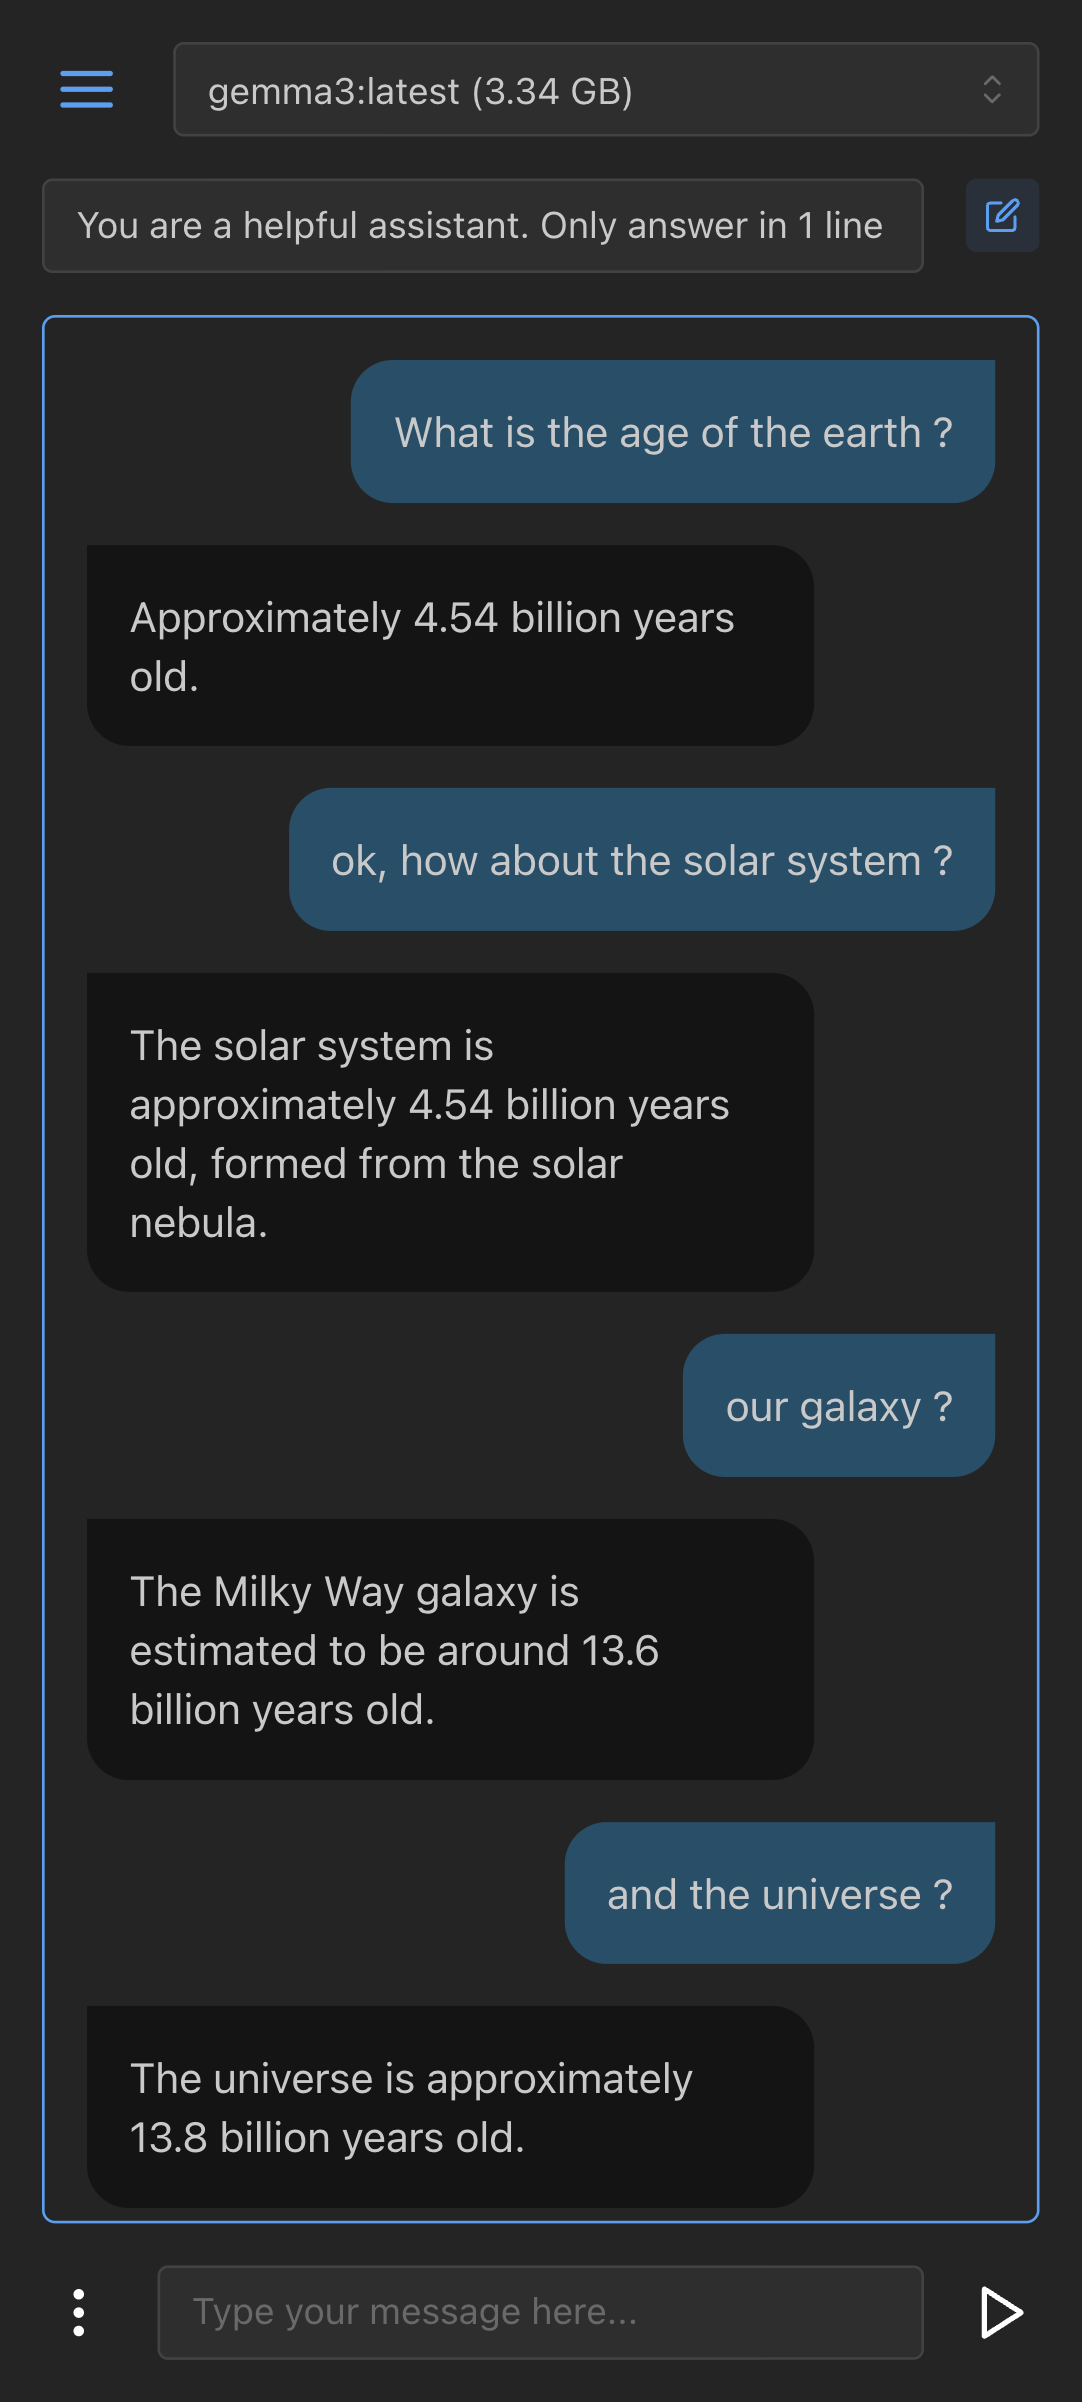
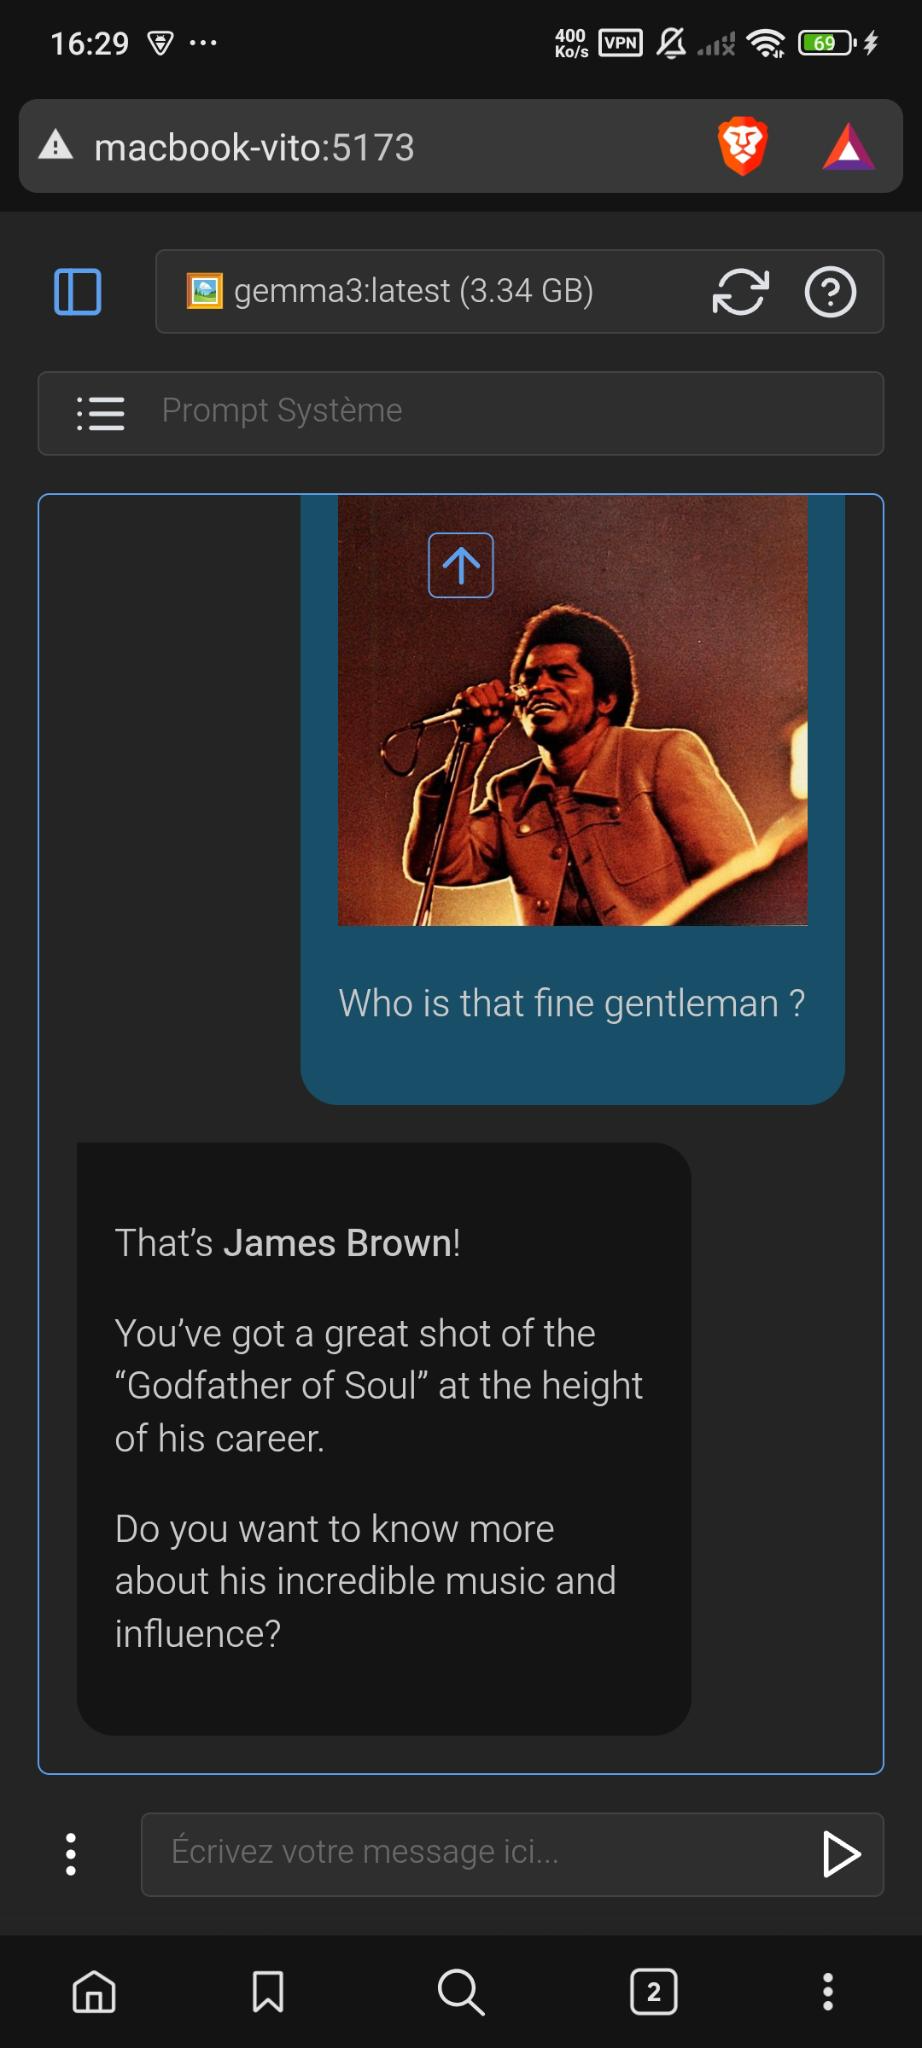
Update UI and screenshots

diff --git a/src/components/Question.tsx b/src/components/Question.tsx
@@ -4,9 +4,9 @@ import { MessageContext } from "@/context/MessageContextDefinition";
 import { ModelContext } from "@/context/ModelContextDefinition";
 import { useOllama } from "@/hooks/useOllama";
 import { useTts } from "@/hooks/useTts";
+import { OllamaModel } from "@/types";
 import { ChatRole } from "@/types/ChatRoleDefinition";
 import { MessageContextType } from "@/types/MessageContextDefinition";
-import { ModelContextType } from "@/types/ModelContextDefinition";
 import { mapIsoToBcp47 } from "@/utils/tools";
 import { ActionIcon, Chip, Menu, Textarea } from "@mantine/core";
 import { AbortableAsyncIterator, ChatResponse, Message } from "ollama";
@@ -18,7 +18,7 @@ import "./Question.css";
 export const Question: React.FC = (): React.ReactElement => {
   const { t } = useTranslation();
   const ollama = useOllama();
-  const { currentModel }: ModelContextType = useContext(ModelContext)!;
+  const { currentModel }: { currentModel: OllamaModel | undefined } = useContext(ModelContext)!;
   const { conversation, image, addMessage, addChunk, setImage, activeSession }: MessageContextType = useContext(MessageContext)!;
   const [userPrompt, setUserPrompt] = useState<string>('');
   const [loading, setLoading] = useState<boolean>(false);
@@ -111,7 +111,6 @@ export const Question: React.FC = (): React.ReactElement => {
             <MoreVertical color="white" />
           </ActionIcon>
         </Menu.Target>
-
         <Menu.Dropdown>
           <div className="menu-items-horizontal">
             <AudioRecorder onTranscript={handleTranscript} />
@@ -125,7 +124,6 @@ export const Question: React.FC = (): React.ReactElement => {
           </div>
         </Menu.Dropdown>
       </Menu>
-
       {image && <Chip
         icon={<X size={16} color="white" />}
         onClick={() => setImage(undefined)}
@@ -136,6 +134,14 @@ export const Question: React.FC = (): React.ReactElement => {
         className="questionArea"
         placeholder={t('chat.placeholder')}
         value={userPrompt}
+        rightSection={
+          <ActionIcon
+            variant="subtle"
+            disabled={!currentModel?.model}
+            onClick={() => loading ? stopRequest() : sendRequest(userPrompt)}>
+            {loading ? <Loader className="spin-animation" color="white" /> : <Play color="white" />}
+          </ActionIcon>
+        }
         onChange={(event: React.ChangeEvent<HTMLTextAreaElement>) => setUserPrompt(event.currentTarget.value)}
         onKeyDown={(e: React.KeyboardEvent<HTMLTextAreaElement>) => {
           if (e.key === 'Enter' && !e.shiftKey) {
@@ -150,12 +156,6 @@ export const Question: React.FC = (): React.ReactElement => {
         maxRows={10}
         autosize
       />
-      <ActionIcon
-        variant="subtle"
-        disabled={!currentModel?.model}
-        onClick={() => loading ? stopRequest() : sendRequest(userPrompt)}>
-        {loading ? <Loader className="spin-animation" color="white" /> : <Play color="white" />}
-      </ActionIcon>
     </div>
   );
 };

diff --git a/src/components/SystemPrompt.tsx b/src/components/SystemPrompt.tsx
@@ -4,7 +4,7 @@ import { MessageContextType } from "@/types/MessageContextDefinition";
 import { SystemPromptItem } from '@/types/SystemPromptDefinition';
 import { ActionIcon, Menu, Textarea } from "@mantine/core";
 import React, { useContext, useEffect, useState } from "react";
-import { MousePointer } from "react-feather";
+import { List } from "react-feather";
 import { useTranslation } from "react-i18next";
 import "./Systemprompt.css";
 
@@ -29,33 +29,34 @@ export const SystemPrompt: React.FC = (): React.ReactElement => {
 
   return (
     <div className="systemPromptContainer"> 
-      <Menu shadow="md" width={200}>
-        <Menu.Target>
-          <ActionIcon
-            variant='transparent'
-            color='gray'>
-            <MousePointer />
-          </ActionIcon>
-        </Menu.Target>
-        <Menu.Dropdown>
-          <Menu.Label>{t('system_prompt.select')}</Menu.Label>
-          {predefinedSystemPrompts.map((p) => (
-            <Menu.Item key={p.id} onClick={() => handlePromptSelect(p.id)}>
-              {p.name}
-            </Menu.Item>
-          ))}
-        </Menu.Dropdown>
-      </Menu>
       <Textarea
         className="systemPrompt"
         value={prompt}
         placeholder={t('system_prompt.title')}
+        autosize
+        maxRows={2}
         onChange={(e: React.ChangeEvent<HTMLTextAreaElement>) => {
           setPrompt(e.target.value);
           updateSystemPrompt(e.target.value);
         }}
-        autosize
-        maxRows={2}/>
+        leftSectionWidth={52}
+        leftSection={
+          <Menu shadow="md" width={200}>
+            <Menu.Target>
+              <ActionIcon color='gray'>
+                <List />
+              </ActionIcon>
+            </Menu.Target>
+            <Menu.Dropdown>
+              <Menu.Label>{t('system_prompt.select')}</Menu.Label>
+              {predefinedSystemPrompts.map((p) => (
+                <Menu.Item key={p.id} onClick={() => handlePromptSelect(p.id)}>
+                  {p.name}
+                </Menu.Item>
+              ))}
+            </Menu.Dropdown>
+          </Menu>
+        }/>
     </div>
   );
 };

diff --git a/src/components/LLMPicker.tsx b/src/components/LLMPicker.tsx
@@ -46,16 +46,6 @@ export const LLMPicker: React.FC = (): React.ReactElement => {
 
   return (
     <div className='pickerContainer'>
-      <ActionIcon variant='transparent' color='gray' onClick={refreshModels}>
-        <RefreshCw />
-      </ActionIcon>
-      <Tooltip
-        label={<div style={{ whiteSpace: 'pre-line' }}>{capabilitiesDescription}</div>}
-        multiline>
-        <ActionIcon variant='transparent' color='gray'>
-          <HelpCircle />
-        </ActionIcon>
-      </Tooltip>
       <Select
         placeholder={t('model.select')}
         value={currentModel?.model}
@@ -63,6 +53,22 @@ export const LLMPicker: React.FC = (): React.ReactElement => {
         className='picker'
         data={selectData}
         searchable
+        rightSectionPointerEvents="visible"
+        rightSectionWidth={82}
+        rightSection={
+          <div className='rightSection'>
+            <ActionIcon color='gray' onClick={refreshModels}>
+              <RefreshCw />
+            </ActionIcon>
+            <Tooltip
+              label={<div className='tooltip'>{capabilitiesDescription}</div>}
+              multiline>
+              <ActionIcon color='gray'>
+                <HelpCircle />
+              </ActionIcon>
+            </Tooltip>
+          </div>
+        }
       />
     </div>
   );

diff --git a/src/App.tsx b/src/App.tsx
@@ -6,7 +6,7 @@ import { SystemPrompt } from "@/components/SystemPrompt";
 import { STORAGE_KEYS } from "@/constants/storageKeys";
 import { ActionIcon } from "@mantine/core";
 import React, { useEffect, useState } from "react";
-import { Menu, X } from "react-feather";
+import { Sidebar } from "react-feather";
 import "./App.css";
 
 const App: React.FC = (): React.ReactElement => {
@@ -39,7 +39,7 @@ const App: React.FC = (): React.ReactElement => {
       <div className="mainPanel">
         <div className="header">
           <ActionIcon onClick={toggleChatList} variant="subtle" size="lg">
-            {showChatList ? <X /> : <Menu />}
+            <Sidebar />
           </ActionIcon>
           <LLMPicker />
         </div>

diff --git a/src/components/LLMPicker.css b/src/components/LLMPicker.css
@@ -4,6 +4,16 @@
     align-items: center;
     gap: 1rem;
 }
+
 .picker {
     flex: 1;
+}
+
+.rightSection {
+    display: flex;
+    gap: var(--mantine-spacing-xs);
+}
+
+.tooltip {
+    white-space: pre-line;
 }

diff --git a/README.md b/README.md
@@ -17,6 +17,8 @@
 *   **Internationalization (i18n):** The interface is available in multiple languages thanks to `i18next`.
 *   **Markdown Rendering:** The model's responses are formatted in Markdown for rich display (lists, code, etc.). Reasoning is collapsable.
 *   **Customizable System Prompt:** Define a custom system prompt to guide the model's behavior.
+*   **System Prompt Presets:** Choose from a list of predefined system prompts to quickly set the context for the model.
+*   **LLM Capabilities:** The UI displays the capabilities of each LLM (e.g., vision, reasoning) to help you choose the right model for your task.
 *   **Strong Typing (TypeScript):** The project is fully typed for better maintainability and early error detection.
 
 ## Request Flow
